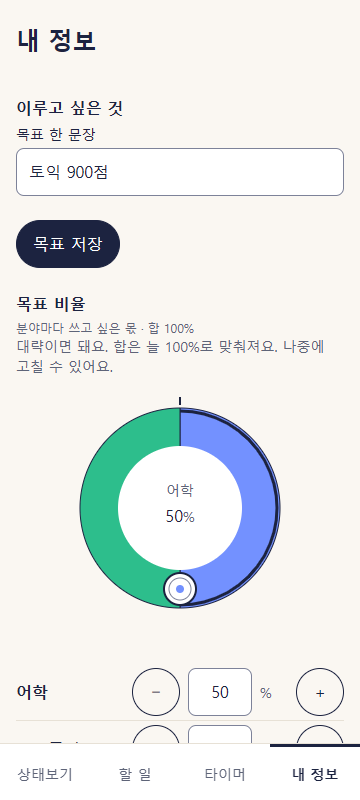
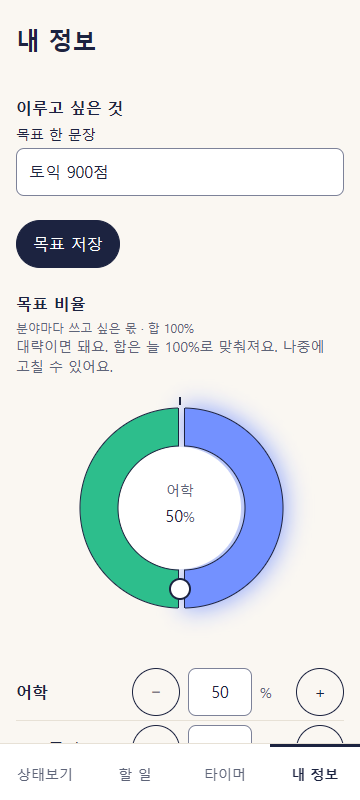
원샷 v2 고침5: 화면 사진 열 장(docs/oneshot-v2/고침5/, 360×800, 개발 갤러리) + 사진 시험(tests/screens/fix5-d.spec.ts), 합친 뒤 다시 찍힌 A·E2 사진

diff --git a/tests/screens/fix5-d.spec.ts b/tests/screens/fix5-d.spec.ts
@@ -1,0 +1,93 @@
+import { expect, test, type Page } from "@playwright/test";
+import fs from "node:fs";
+import path from "node:path";
+
+/**
+ * 고침 5바퀴 D(합치기·이음매): PM이 보는 화면 사진 열 장, 360×800. docs/oneshot-v2/고침5/ 에 화면 이름으로 둔다.
+ * 개발 갤러리(/dev/v2, /dev/states)의 화면이다(진짜 로그인 앱 화면 아님 — 그 길은 e2e의 todo-flow). 개발 서버(3200)에서 돈다: npm run screens
+ * 사진을 찍는 김에 「가로로 넘치지 않는다」·「칩 줄이 한 줄」 같은 치수를 같이 단언한다(사진만 남는 시험이 되지 않게).
+ */
+const OUT = path.resolve(__dirname, "../../docs/oneshot-v2/고침5");
+
+async function open(page: Page, url: string) {
+  await page.setViewportSize({ width: 360, height: 800 });
+  await page.goto(url);
+  await page.waitForLoadState("networkidle");
+}
+async function photo(page: Page, name: string) {
+  fs.mkdirSync(OUT, { recursive: true });
+  await page.screenshot({ path: path.join(OUT, `${name}.png`), fullPage: false });
+}
+async function noOverflow(page: Page) {
+  const s = await page.evaluate(() => ({ sw: document.documentElement.scrollWidth, cw: document.documentElement.clientWidth }));
+  expect(s.sw, "가로 스크롤 없음").toBeLessThanOrEqual(s.cw);
+}
+
+test("상태보기: 이번 주 목표 뷰 · 목표 비율 뷰(띠) · 목표 비율 뷰(원) · 빈 상태", async ({ page }) => {
+  await open(page, "/dev/v2?s=growth-goal");
+  await expect(page.locator(".growth-goal-fill").first()).toBeVisible();
+  await noOverflow(page);
+  await photo(page, "상태보기-이번주목표");
+  await open(page, "/dev/v2?s=growth-ratio");
+  await expect(page.locator(".growth-band")).toHaveCount(2);
+  await noOverflow(page);
+  await photo(page, "상태보기-목표비율-띠");
+  await open(page, "/dev/v2?s=growth-pie");
+  await expect(page.locator("svg.growth-pie")).toHaveCount(2);
+  await noOverflow(page);
+  await photo(page, "상태보기-목표비율-원");
+  await open(page, "/dev/v2?s=growth-empty");
+  await expect(page.getByRole("button", { name: "오늘 기록", exact: true })).toBeVisible();
+  await noOverflow(page);
+  await photo(page, "상태보기-빈상태");
+});
+
+test("오늘 기록: 시간 단계(오늘 할 일 n/m ›) · 오늘 할 일 시트", async ({ page }) => {
+  await open(page, "/dev/v2?s=evening-todo");
+  const line = page.getByRole("button", { name: /^오늘 할 일 2\/4/ });
+  await expect(line).toBeVisible();
+  await noOverflow(page);
+  await photo(page, "오늘기록-시간단계");
+  await line.click();
+  const sheet = page.getByRole("dialog", { name: "오늘 할 일" });
+  await expect(sheet).toBeVisible();
+  await expect(sheet.getByRole("checkbox")).toHaveCount(4);
+  await photo(page, "오늘할일-시트");
+});
+
+test("오늘 기록 나누기: 칩이 골라진 채(조각 3px·빛)", async ({ page }) => {
+  await open(page, "/dev/v2?s=evening-split");
+  await page.locator("#dev-open-window").click();
+  await expect(page.getByRole("dialog")).toBeVisible();
+  await page.getByLabel("시간", { exact: true }).fill("2");
+  await page.getByRole("button", { name: "분야마다 나누기" }).click();
+  await expect(page.getByRole("heading", { name: "분야마다 나눠 주세요" })).toBeVisible();
+  const group = page.getByRole("group", { name: "분야 · 여러 개" });
+  // 갤러리의 처음 값: 타이머·끝낸 할 일 분야 칩이 골라진 채 시작한다(조각이 여럿)
+  await expect(group.locator('button[aria-pressed="true"]').first()).toBeVisible();
+  expect(await page.locator(".dial-slice").count(), "조각이 둘 이상").toBeGreaterThanOrEqual(2);
+  await expect.poll(() => page.locator(".dial-slice.is-picked").count(), "고른 조각이 있다").toBeGreaterThan(0);
+  // 고른 조각은 3px 나오고 뒤에 빛(.dial-glow, 같은 분야 색)이 깔린다
+  expect(await page.locator("path.dial-glow").count(), "빛 번짐").toBe(1);
+  const lifted = await page.locator(".dial-slice.is-picked").first().evaluate((el) => getComputedStyle(el).transform);
+  expect(lifted, "고른 조각이 밖으로 나옴").not.toBe("none");
+  await page.locator("svg.dial").scrollIntoViewIfNeeded();
+  await photo(page, "오늘기록-나누기");
+});
+
+test("처음 설정 목표 비율 · 할 일(적는 창 칩 줄) · 내 정보", async ({ page }) => {
+  await open(page, "/dev/v2?s=ratio-onboarding");
+  await page.getByRole("button", { name: "다음" }).click();
+  await page.getByRole("button", { name: "다음" }).click();
+  await expect(page.getByText("합계 100%")).toBeVisible();
+  await photo(page, "처음설정-목표비율");
+  await open(page, "/dev/states?s=C24&sheet=open");
+  const row = page.getByRole("group", { name: "분야 (고르지 않으면 기타)" });
+  await expect(row).toBeVisible();
+  await noOverflow(page);
+  await photo(page, "할일-적는창-칩줄");
+  await open(page, "/dev/v2?s=me-ratio");
+  await expect(page.getByRole("heading", { name: "목표 비율" })).toBeVisible();
+  await page.getByRole("heading", { name: "목표 비율" }).scrollIntoViewIfNeeded();
+  await photo(page, "내정보");
+});
